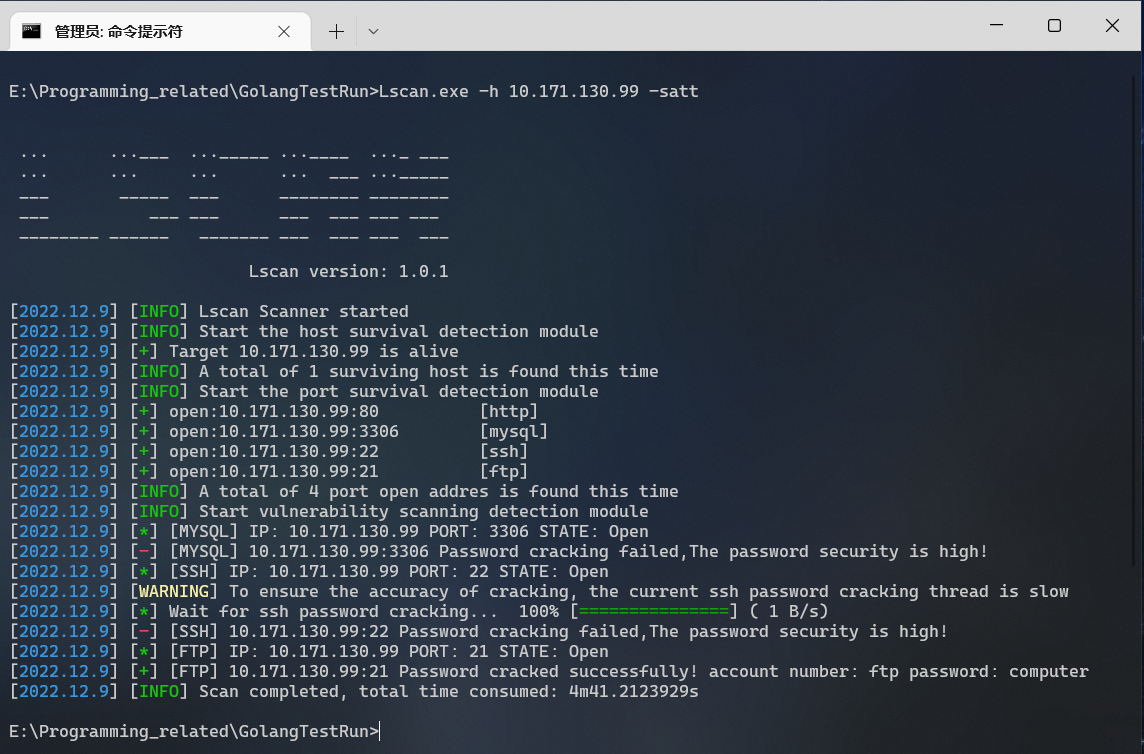
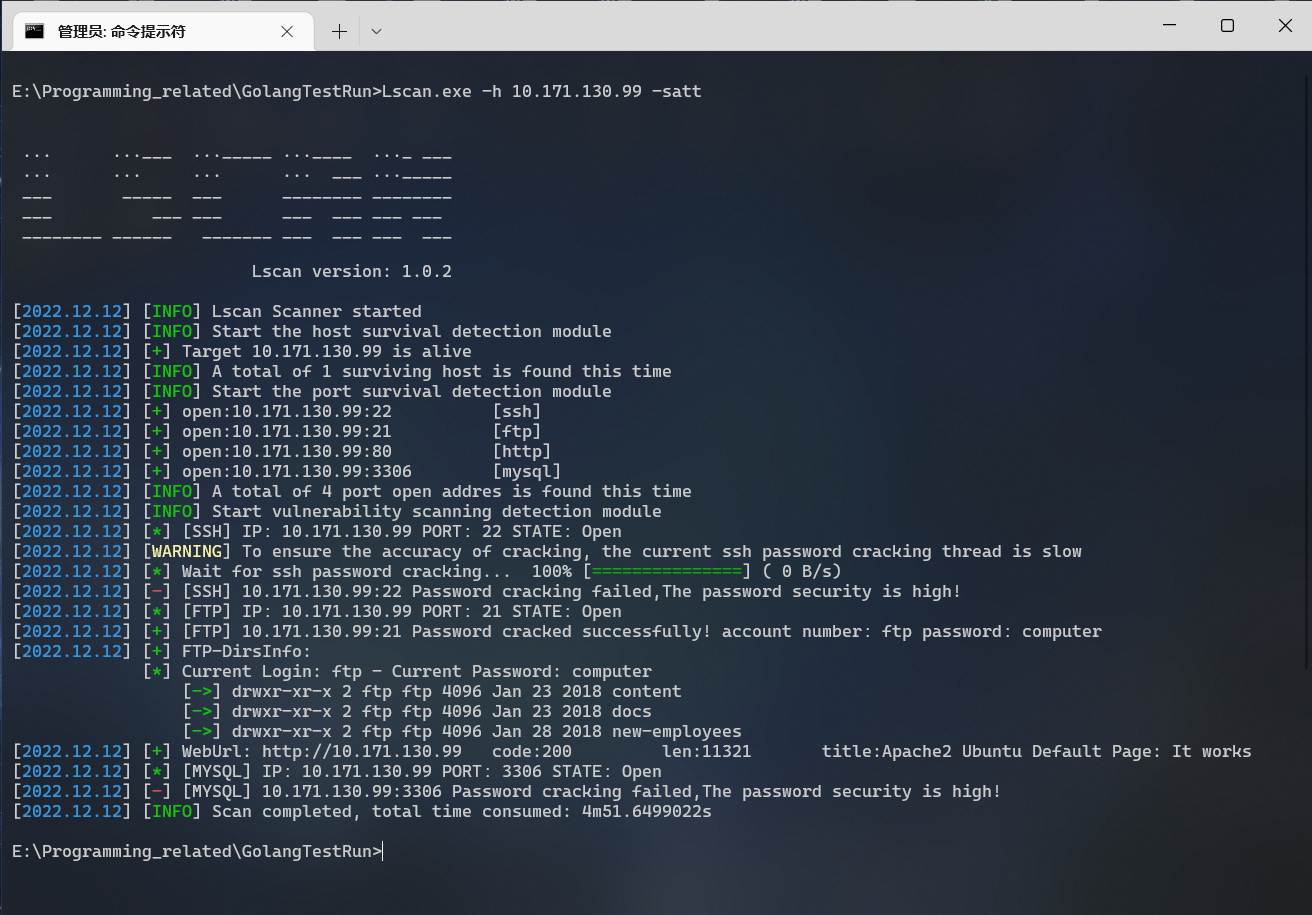
22.12.12

diff --git a/cores/entrance.go b/cores/entrance.go
@@ -99,9 +99,9 @@ func Flag(addre *lc.HostInfo, instruct *lc.CommandInfo) {
 func Usage() {
 	slogan := `
 Examples of general usage:
-	Lscan.exe -h 192.168.1.1/24       (Information collection mode scan)
-	Lscan.exe -h 192.168.1.1/24 -ifms (Information collection mode scan)
-	Lscan.exe -h 192.168.1.1/24 -satt (Scan detection mode scan)
+    Lscan.exe -h 192.168.1.1/24                 (Information collection mode scan)
+	Lscan.exe -h 192.168.1.1/24 -ifms           (Information collection mode scan)
+	Lscan.exe -h 192.168.1.1/24 -satt           (Scan detection mode scan)
 
 Other usage examples:
 	Lscan.exe -h 192.168.1.1/24 -m ftp  		 // Batch ftp section blasting scanning for section C
@@ -109,46 +109,46 @@ Other usage examples:
 	Lscan.exe -h 192.168.1.1/24 -m portscan 	 // Open port scanning for section C
 
 Parameter list:
-  -host string
-        IP address of the host you want to scan,for example: 192.168.1.1 | 192.168.1.1-255 | 192.168.1.1,192.168.1.2
-  -hf string
-        host file,for example: -hf ip.txt
-  -h string
-        IP address of the host you want to scan,for example: 192.168.1.1 | 192.168.1.1-255 | 192.168.1.1,192.168.1.2
-  -pf string
-        Port File,for example: -pf port.txt
-  -p string
-        IP port of the host you want to scan,for example: 22 | 1-65535 | 22,80,3306
-  -ifms
-        Start Information Collection Mode Scan
-  -satt
-        Start scan detection mode scan
-  -m string
-        Select scan modular: survival | portscan | ftp | ssh | find-net | snmp | smb | ms17010 | smbghost | rmi | mssql | oracle | zookeeper | docker | mysql | rdp | postgres | redis | webtitle | k8s | elastic | memcached | mongodb
-  -apon
-        Enabling this setting will scan the list of 1~65,535 port numbers with
-  -np
-        Set not to perform host viability scan
-  -nm string
-        Set the name of the module that is not scanned, for example: -nm ssh
-  -o string
-         Set the output path and result name of the scan results (default name outcome.txt)
-  -userf string
-        username file, for example: -userf user.txt
-  -user string
-        username
-  -pwdf string
-        password file, for example: -pwdf pwd.txt
-  -pwd string
-        password
-  -logl int
-        Sets the log level, which is used to determine the log level output (default level 3, maximum level can be set to 5)
-  -socks5 string
-        set socks5 proxy, will be used in tcp connection, timeout setting will not work, for example: -socks5  socks5://127.0.0.1:1080
-  -tps int
-        Sets the concurrent thread value for the port scan module function (default is 1000)
-  -time int
-        Set the tcp connection timeout (default 3)
+    -host string
+          IP address of the host you want to scan,for example: 192.168.1.1 | 192.168.1.1-255 | 192.168.1.1,192.168.1.2
+    -hf string
+          host file,for example: -hf ip.txt
+    -h string
+          IP address of the host you want to scan,for example: 192.168.1.1 | 192.168.1.1-255 | 192.168.1.1,192.168.1.2
+    -pf string
+          Port File,for example: -pf port.txt
+    -p string
+          IP port of the host you want to scan,for example: 22 | 1-65535 | 22,80,3306
+    -ifms
+          Start Information Collection Mode Scan
+    -satt
+          Start scan detection mode scan
+    -m string
+          Select scan modular: survival | portscan | ftp | ssh | find-net | snmp | smb | ms17010 | smbghost | rmi | mssql | oracle | zookeeper | docker | mysql | rdp | postgres | redis | webtitle | k8s | elastic | memcached | mongodb
+    -apon
+          Enabling this setting will scan the list of 1~65,535 port numbers with
+    -np
+          Set not to perform host viability scan
+    -nm string
+          Set the name of the module that is not scanned, for example: -nm ssh
+    -o string
+           Set the output path and result name of the scan results (default name outcome.txt)
+    -userf string
+          username file, for example: -userf user.txt
+    -user string
+          username
+    -pwdf string
+          password file, for example: -pwdf pwd.txt
+    -pwd string
+          password
+    -logl int
+          Sets the log level, which is used to determine the log level output (default level 3, maximum level can be set to 5)
+    -socks5 string
+          set socks5 proxy, will be used in tcp connection, timeout setting will not work, for example: -socks5  socks5://127.0.0.1:1080
+    -tps int
+          Sets the concurrent thread value for the port scan module function (default is 1000)
+    -time int
+          Set the tcp connection timeout (default 3)
 
 `
 	print(slogan)

diff --git a/common/function/webapplication/webtitle.go b/common/function/webapplication/webtitle.go
@@ -51,12 +51,12 @@ func WebTitle(info *lc.HostInfo) (*lc.HostInfo, error) {
 			info.Url = fmt.Sprintf("https://%s", info.ScanHost)
 		} else {
 			host := fmt.Sprintf("%s:%s", info.ScanHost, info.ScanPort)
-			protocol := GetProtocol(host, time.Duration(lc.WebTimeout)*time.Second) // 获取当前 ip:port 协议
+			protocol := getProtocol(host, time.Duration(lc.WebTimeout)*time.Second) // 获取当前 ip:port 协议
 			info.Url = fmt.Sprintf("%s://%s:%s", protocol, info.ScanHost, info.ScanPort)
 		}
 	} else {
 		if !strings.Contains(info.Url, "://") {
-			protocol := GetProtocol(info.Url, time.Duration(lc.WebTimeout)*time.Second)
+			protocol := getProtocol(info.Url, time.Duration(lc.WebTimeout)*time.Second)
 			info.Url = fmt.Sprintf("%s://%s", protocol, info.Url)
 		}
 	}
@@ -135,8 +135,8 @@ func WebTitle(info *lc.HostInfo) (*lc.HostInfo, error) {
 	return info, err
 }
 
-// 获取http协议类型
-func GetProtocol(host string, Timeout time.Duration) string {
+// getProtocol 获取http协议类型
+func getProtocol(host string, Timeout time.Duration) string {
 	conn, err := tls.DialWithDialer(&net.Dialer{Timeout: Timeout}, "tcp", host, &tls.Config{InsecureSkipVerify: true})
 	defer func() {
 		if conn != nil {
@@ -239,7 +239,7 @@ func geturl(info *lc.HostInfo, flag int, CheckData []infodict.CheckDatas) (error
 						encode2 = detectorstr.Charset
 					}
 					if encode == "gbk" || encode == "gb2312" || strings.Contains(strings.ToLower(encode2), "gb") {
-						titleGBK, err := Decodegbk(text)
+						titleGBK, err := decodegbk(text)
 						if err == nil {
 							title = string(titleGBK)
 						}
@@ -282,7 +282,7 @@ func geturl(info *lc.HostInfo, flag int, CheckData []infodict.CheckDatas) (error
 	return err, "", CheckData, baseinfo
 }
 
-// 获取响应body
+// getRespBody 获取响应body
 func getRespBody(oResp *http.Response) ([]byte, error) {
 	var body []byte
 	if oResp.Header.Get("Content-Encoding") == "gzip" {
@@ -312,8 +312,8 @@ func getRespBody(oResp *http.Response) ([]byte, error) {
 	return body, nil
 }
 
-// Decodegbk 解码GBK
-func Decodegbk(s []byte) ([]byte, error) { // GBK解码
+// decodegbk 解码GBK
+func decodegbk(s []byte) ([]byte, error) { // GBK解码
 	I := bytes.NewReader(s)
 	O := transform.NewReader(I, simplifiedchinese.GBK.NewDecoder())
 	d, e := io.ReadAll(O)

diff --git a/cores/execution.go b/cores/execution.go
@@ -9,7 +9,6 @@ import (
 	"fmt"
 	"os"
 	"reflect"
-	"strconv"
 	"strings"
 )
 
@@ -49,10 +48,11 @@ func attackModualScan(info *lc.HostInfo) {
 					addScan(funcNumber, info)
 					continue
 				}
+			} else { // 若扫描出来的端口号都不在 lcfa.PortForFunc 中，则开启 webtitle 扫描。
+				addScan("webtitle", info)
 			}
 		}
 	}
-
 }
 
 // modualAloneScan 用于扫描特定端口号的模块的函数，该函数只涉及在 entrance.go 中判断模块使用
@@ -86,25 +86,24 @@ func modualAloneScan(mnane string, info *lc.HostInfo) {
 		os.Exit(0)
 	}
 
-	// 临时替代方案-测试功能使用
-	if mnane == "webtitle" { // 若输入的模块名为webtitle，则默认处理80端口和443端口号
-		//for _, port := range []string{"80"} { // 暂时替代方案
+	logger.Debug(fmt.Sprint("info.scanport", info.ScanPort)) // 用于显示当前自动选择的端口号
 
+	if lcc.IsContain(lc.SpecialIdentifier, info.ScanPort) { // 判断是否为特殊功能,若是则进入下列switch判断
+		switch mnane {
+		case "webtitle": // 若 -m 输入了 webtitle 则先进行主机存活,再进行端口扫描，最后进行webtitle扫描
+			lcfs.PortScanTcp(info)
+			modualSelectScan("webtitle", info)
+		default:
+			logger.Error("特殊模块编写错误，此处为bug!")
+			return
+		}
+	} else {
+		// 开启对应的模块扫描
 		for _, host := range info.Hosts {
-			info.ScanPort = strconv.Itoa(80)
 			info.ScanHost = host
 			addScan(mnane, info)
 		}
-		//}
-		return // 先暂时使用默认的两个端口号
 	}
-
-	// 开启对应的模块扫描
-	for _, host := range info.Hosts {
-		info.ScanHost = host
-		addScan(mnane, info)
-	}
-
 }
 
 // modualSelectScan 用于手动输入模块名称的自动化扫描，使用该模块必须保证前面已经启动了portscan的扫描，且存在一定的存活端口号

diff --git a/configs/config.go b/configs/config.go
@@ -20,6 +20,9 @@ var AllPorts = "1-65535"
 // GeneralPorts 默认常见端口号
 var GeneralPorts = "21,22,80,81,82,83,84,85,86,87,88,89,90,91,92,98,99,135,139,443,445,800,801,808,880,888,889,1000,1010,1080,1081,1082,1099,1118,1433,1521,1888,2008,2020,2100,2375,2379,3000,3008,3128,3306,5432,3505,5555,6379,6080,6648,6868,7000,7001,7002,7003,7004,7005,7007,7008,7070,7071,7074,7078,7080,7088,7200,7680,7687,7688,7777,7890,8000,8001,8002,8003,8004,8006,8008,8009,8010,8011,8012,8016,8018,8020,8028,8030,8038,8042,8044,8046,8048,8053,8060,8069,8070,8080,8081,8082,8083,8084,8085,8086,8087,8088,8089,8090,8091,8092,8093,8094,8095,8096,8097,8098,8099,8100,8101,8108,8118,8161,8172,8180,8181,8200,8222,8244,8258,8280,8288,8300,8360,8443,8448,8484,8800,8834,8838,8848,8858,8868,8879,8880,8881,8888,8899,8983,8989,9000,9001,9002,9008,9010,9043,9060,9080,9081,9082,9083,9084,9085,9086,9087,9088,9089,9090,9091,9092,9093,9094,9095,9096,9097,9098,9099,9100,9200,9443,9448,9800,9981,9986,9988,9998,9999,10000,10001,10002,10004,10008,10010,10250,11211,12018,12443,14000,16080,18000,18001,18002,18004,18008,18080,18082,18088,18090,18098,19001,20000,20720,21000,21501,21502,27017,28018,20880"
 
+// SpecialIdentifier 特殊功能编号，用于在 modualAloneScan() 中使用
+var SpecialIdentifier = []string{"70001"}
+
 // CommandInfo 功能参数选择模块
 type CommandInfo struct {
 	Value   string // 待用参数值

diff --git a/common/function/systemapp/portScanTcp.go b/common/function/systemapp/portScanTcp.go
@@ -22,8 +22,10 @@ var addressChan = make(chan string, lenIpPort)
 var addressList []string
 
 func workerProbePort() {
-	//函数结束释放连接
+
+	//函数结束wg减1
 	defer wg.Done()
+
 	for {
 		address, ok := <-addressChan
 		if !ok {
@@ -43,6 +45,7 @@ func workerProbePort() {
 
 		logger.Success(result)
 		addressList = append(addressList, address)
+
 	}
 }
 
@@ -89,6 +92,7 @@ func PortScanTcp(addre *configs.HostInfo) {
 	for work := 0; work < pool_size; work++ {
 		wg.Add(1)
 		pool.Submit(workerProbePort)
+
 	}
 
 	//等待结束
